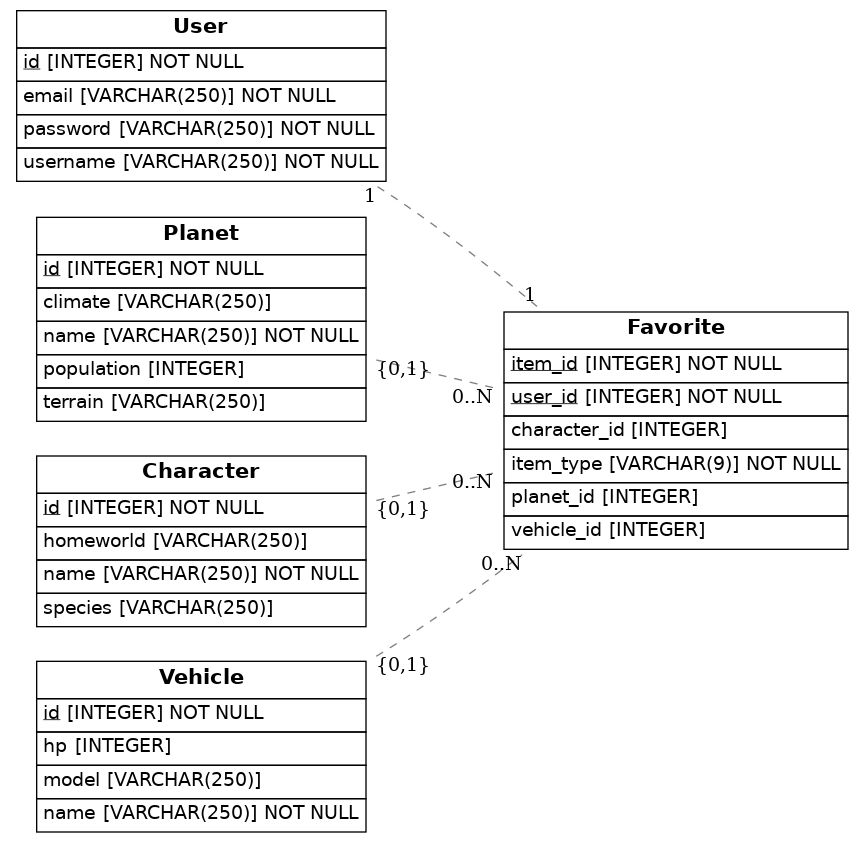
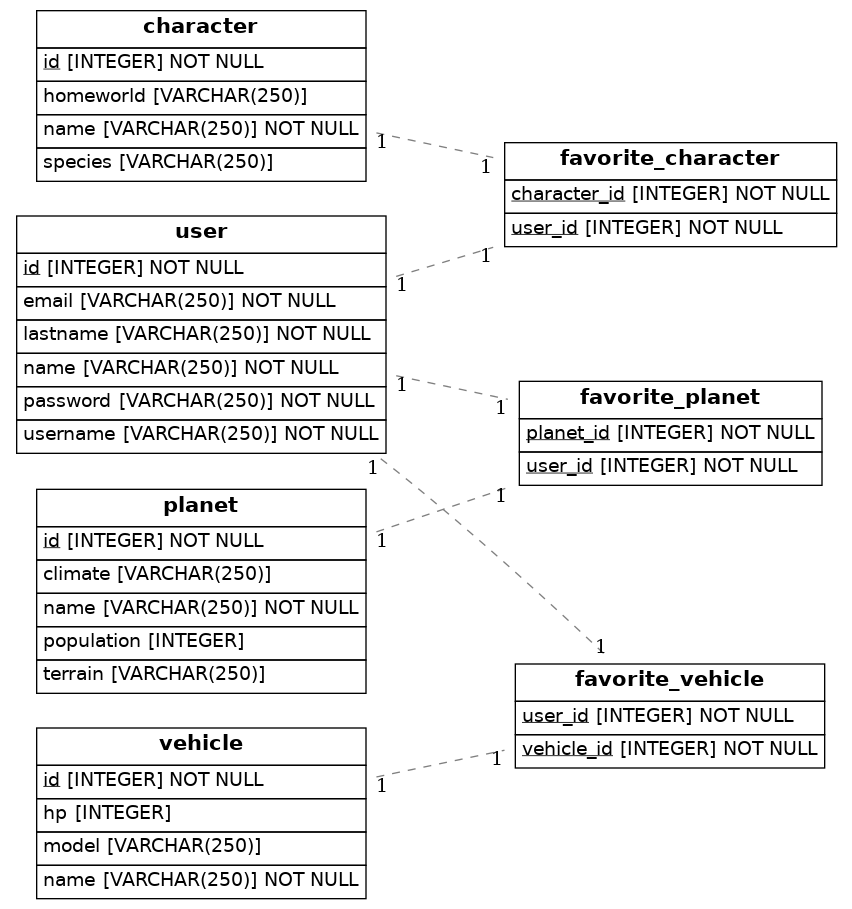
g

diff --git a/src/models.py b/src/models.py
@@ -1,5 +1,6 @@
-from sqlalchemy import Column, Integer, String, ForeignKey
+from sqlalchemy import Column, ForeignKey, Integer, String
 from sqlalchemy.orm import relationship, declarative_base
+from eralchemy2 import render_er
 
 Base = declarative_base()
 
@@ -68,3 +69,10 @@ class FavoriteVehicle(Base):
 
     user = relationship('User', back_populates='favorite_vehicles')
     vehicle = relationship('Vehicle', back_populates='favorite_vehicles')
+
+try:
+    result = render_er(Base, 'diagram.png')
+    print("Success! Check the diagram.png file")
+except Exception as e:
+    print( "There was a problem generating the diagram")
+    raise 
